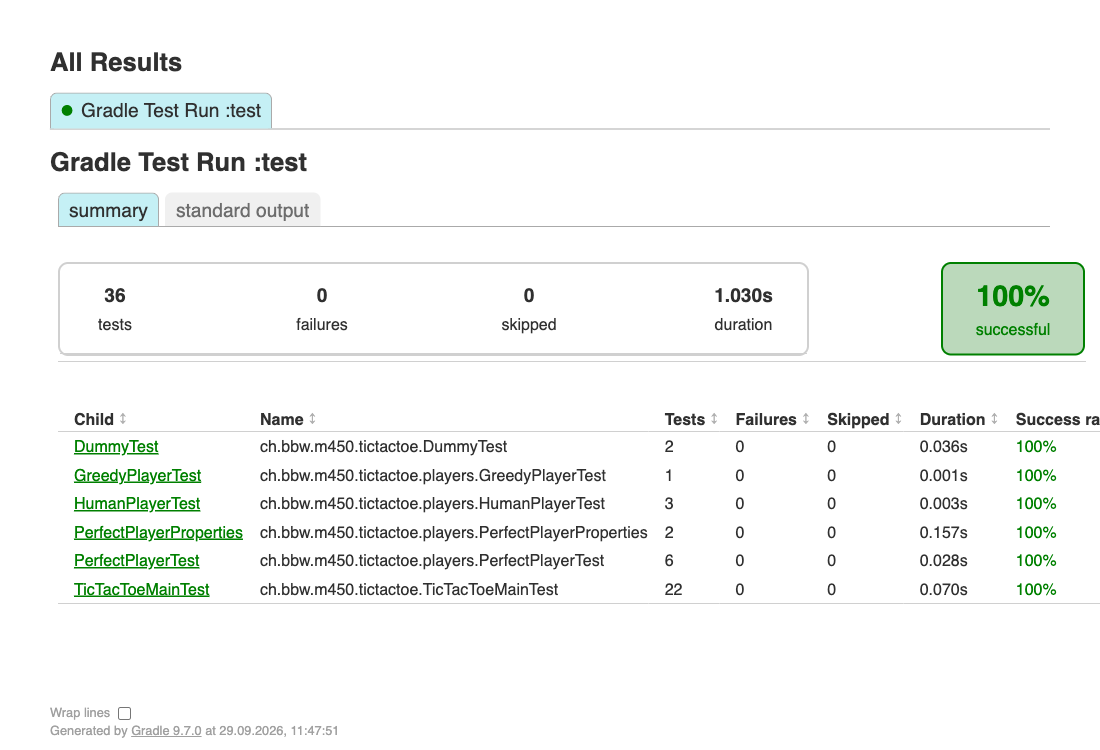
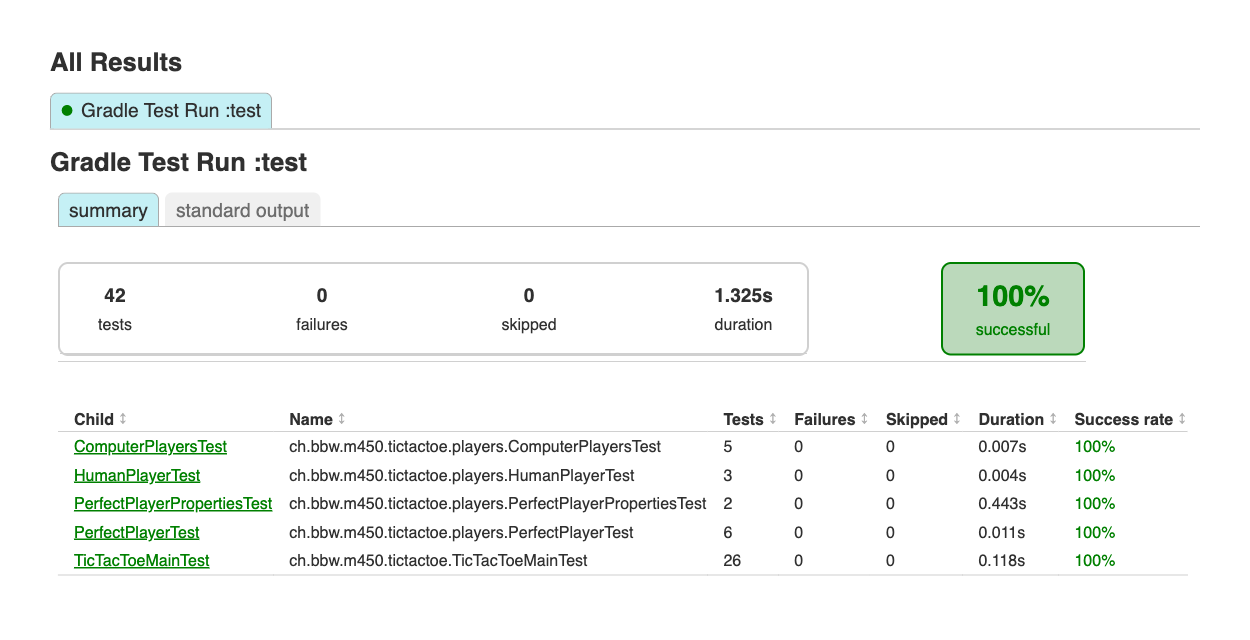
docs: Testkonzept und Screenshot auf 42 Tests und 100 % Mutation Score nachfuehren

diff --git a/docs/TESTING.md b/docs/TESTING.md
@@ -1,7 +1,7 @@
 # Testkonzept – TicTacTest (Modul 450)
 
 **Projekt:** TicTacTest (TicTacToe-Spiel-Engine in Java)
-**Dokument-Version:** 0.5 (IST)
+**Dokument-Version:** 0.6 (IST)
 **Autor / Rolle:** Duarte Santos – Entwickler = Tester (bewertete Einzelarbeit)
 **Repository:** `DuarteSantos8/450-tictactest-mvk`
 
@@ -34,7 +34,8 @@ Die Ziele sind nummeriert, damit die Testfälle (Abschnitt 7) darauf verweisen k
   `IllegalStateException` ab.
 - **TZ-06:** Ein-/Ausgabe funktioniert: `HumanPlayer` liest die Eingabe, `toString` und `main`
   geben das Brett richtig aus (StdIn/StdOut-Tests mit Pioneer).
-- **TZ-07:** Der `PerfectPlayer` verliert nie und blockt, wenn der Gegner gewinnen könnte.
+- **TZ-07:** Der `PerfectPlayer` verliert nie (als X und als O), blockt, wenn der Gegner gewinnen
+  könnte, und gewinnt, wenn er kann.
 - **TZ-08:** Mindestens 90 % Branch-Coverage (wird im Build erzwungen).
 
 ## 3. Teststrategie und Teststufen
@@ -44,22 +45,26 @@ Die Ziele sind nummeriert, damit die Testfälle (Abschnitt 7) darauf verweisen k
 - **StdIn/StdOut-Tests mit Pioneer:** `@StdIo` ersetzt die Tastatur-Eingabe und fängt die
   Konsolen-Ausgabe ab (`HumanPlayerTest`, `main` und `play` in `TicTacToeMainTest`).
 - **Property-based Tests mit jqwik** (zusätzliches Testframework): jqwik erzeugt viele
-  zufällige Eingaben und prüft, dass eine Regel immer stimmt (`PerfectPlayerProperties`).
+  zufällige Eingaben und prüft, dass eine Regel immer stimmt (`PerfectPlayerPropertiesTest`).
 - **Mutation Testing mit PITest:** PITest baut absichtlich Fehler in den Code ein (z.B. `<`
   statt `<=`) und schaut, ob ein Test rot wird. Wird kein Test rot, ist der Test zu schwach.
+  Der Build schlägt fehl, wenn weniger als 90 % der Mutanten erkannt werden (`mutationThreshold`).
 - **Coverage-Verification mit JaCoCo:** der Build schlägt fehl, wenn die Branch-Coverage
   unter 90 % fällt.
 
 Angewendete Prinzipien:
 
-- **Given-When-Then** als Namens- und Aufbauschema: der Methodenname nennt Ausgangslage,
-  Aktion und Erwartung; im Rumpf sind die drei Blöcke durch Leerzeilen getrennt.
+- **Sprechende Testnamen in camelCase**, die das erwartete Verhalten beschreiben, z.B.
+  `playRejectsTheSamePlayerTwice` (Java-Konvention, keine Sonar-Warnung wegen `_`). Wo es
+  geht, sind Tests Einzeiler; sonst sind Vorbereitung, Aktion und Prüfung durch Leerzeilen getrennt.
 - **AssertJ fluent-Assertions** statt roher `assertTrue(...)`: die Testklasse implementiert
   `WithAssertions`, damit `assertThat(...)` und `assertThatThrownBy(...)` direkt verfügbar sind.
 - **Fixtures für Isolation:** benannte Board-Konstanten statt magischer Strings und vor jeder
   Testmethode frische Spieler-Instanzen (`@BeforeEach`).
-- **Parameterized Test gegen Coderepetition:** die acht Siegeslinien und die Nicht-Sieg-Fälle
-  laufen über *eine* Methode statt über je einen Test pro Brett.
+- **Parameterized Test gegen Coderepetition:** gleiche Testlogik mit anderen Daten läuft immer
+  über *eine* Methode: Siegeslinien (`@MethodSource`), ganze Spiele (`@MethodSource`), ungültige
+  Züge und Muster (`@ValueSource`), `opponent()` und Spielzüge (`@CsvSource`) und der Test
+  „volles Brett“ für alle Computer-Player (`@MethodSource`).
 
 ### Fixtures und Helper
 
@@ -71,11 +76,11 @@ private static final String DIAGONAL_X_WINS = "XOO OX. XOX";
 private static final String DRAW_BOARD = "XOX XXO OXO";
 ```
 
-**Spieler-Fixture** – `@BeforeEach setUp()` legt vor *jeder* Testmethode zwei frische
-`GreedyPlayer` an, damit kein Test von einer Partie eines anderen Tests beeinflusst wird.
+**Spieler-Fixture** – `@BeforeEach setUp()` legt in `TicTacToeMainTest` vor *jeder*
+Testmethode zwei frische `GreedyPlayer` an, damit kein Test von einer Partie eines anderen Tests beeinflusst wird.
 
 **Helper** – `Boards.toBoard(...)` übersetzt so ein Muster in das `Stone[]` mit neun Feldern,
-das das Spiel erwartet. Er liegt in einer eigenen Klasse, damit alle Testklassen ihn benutzen
+das das Spiel erwartet, `Boards.emptyBoard()` liefert ein leeres Brett. Er liegt in einer eigenen Klasse, damit alle Testklassen ihn benutzen
 können (keine Coderepetition). Bei falscher Länge oder unbekanntem Zeichen wirft er eine
 `IllegalArgumentException`.
 
@@ -90,13 +95,8 @@ Die Sieg-Erkennung (TZ-01 / TZ-02) wird mit *einer* Methode über viele Konstell
 ```java
 @ParameterizedTest(name = "{1} on \"{0}\" -> {2}")
 @MethodSource("boardConstellations")
-void given_aBoard_when_isWinIsChecked_then_returnsWhetherThatColorHasALine(String pattern, Stone color,
-        boolean expectedToWin) {
-    var board = toBoard(pattern);
-
-    var winning = TicTacToeMain.isWin(board, color);
-
-    assertThat(winning).isEqualTo(expectedToWin);
+void isWinDetectsALineOnlyForItsOwnColor(String pattern, Stone color, boolean expectedToWin) {
+    assertThat(TicTacToeMain.isWin(toBoard(pattern), color)).isEqualTo(expectedToWin);
 }
 ```
 
@@ -105,12 +105,12 @@ void given_aBoard_when_isWinIsChecked_then_returnsWhetherThatColorHasALine(Strin
 | Testobjekt | Abgedeckt? | Testklasse | Bemerkung |
 |---|---|---|---|
 | `TicTacToeMain.isWin(...)` | ja | `TicTacToeMainTest` | alle acht Siegeslinien + Nicht-Sieg-Fälle |
-| `TicTacToeMain.play(...)` | ja | `TicTacToeMainTest` | Sieg, Unentschieden, ungültige Züge, gleiche Spieler |
+| `TicTacToeMain.play(...)` | ja | `TicTacToeMainTest` | 4 ganze Spiele (Sieg X, Sieg O, Unentschieden), ungültige Züge, gleiche Spieler |
 | `TicTacToeMain.toString(...)` | ja | `TicTacToeMainTest` | Ausgabe ohne Farbcodes verglichen |
 | `TicTacToeMain.main(...)` | ja | `TicTacToeMainTest` | mit Pioneer: Eingabe `3, 4, 5` → Mensch gewinnt |
 | `HumanPlayer` | ja | `HumanPlayerTest` | mit Pioneer: Eingabe lesen, Ausgabe prüfen, falsche Eingabe |
-| `GreedyPlayer` | ja | `GreedyPlayerTest` | volles Brett → Exception; sonst über `play(...)` |
-| `PerfectPlayer` | ja | `PerfectPlayerTest`, `PerfectPlayerProperties` | gewinnt gegen Greedy, blockt, verliert nie (jqwik) |
+| `GreedyPlayer` | ja | `ComputerPlayersTest` | nimmt das erste freie Feld; volles Brett → Exception |
+| `PerfectPlayer` | ja | `PerfectPlayerTest`, `PerfectPlayerPropertiesTest`, `ComputerPlayersTest`, `TicTacToeMainTest` | blockt, gewinnt wenn möglich, gewinnt gegen Greedy, verliert nie als X und als O (jqwik), volles Brett → Exception |
 | `Stone.opponent()` | ja | `TicTacToeMainTest` | beide Farben |
 
 **Gemessene Abdeckung (JaCoCo):**
@@ -119,14 +119,14 @@ void given_aBoard_when_isWinIsChecked_then_returnsWhetherThatColorHasALine(Strin
 |---|---|---|
 | Branch-Coverage | **100 %** (94 von 94) | min. 90 % (im Build erzwungen) |
 | Line-Coverage | **98.5 %** (67 von 68) | – |
-| Mutation Score (PITest) | **99 %** (72 von 73 Mutanten gekillt) | – |
+| Mutation Score (PITest) | **100 %** (73 von 73 Mutanten gekillt) | min. 90 % (im Build erzwungen) |
 
 Die eine nicht abgedeckte Zeile ist der unsichtbare Standard-Konstruktor von `TicTacToeMain`
 (die Klasse hat nur statische Methoden, darum wird nie ein Objekt davon erstellt).
 
-Der eine überlebende Mutant ändert im `PerfectPlayer` `score > bestScore` zu `score >= bestScore`.
-Dann nimmt der Player bei gleich guten Zügen den letzten statt den ersten – er spielt aber
-genauso perfekt. Das ist ein **äquivalenter Mutant**, den kein Test erkennen kann.
+Früher überlebte ein Mutant: `score > bestScore` im `PerfectPlayer` wurde zu `score >= bestScore`.
+Dann nimmt der Player bei gleich guten Zügen den letzten statt den ersten Zug. Der Test
+`takesTheFirstFieldWhenAllMovesAreEquallyGood` (leeres Brett → Feld 0) erkennt das jetzt.
 
 ## 5. Testrahmen und Erfolgskriterien
 
@@ -167,18 +167,19 @@ genauso perfekt. Das ist ein **äquivalenter Mutant**, den kein Test erkennen ka
 | TC-03 | TZ-01 | Brett `XOO OX. XOX` | `isWin(board, CROSS)` | `true` (Diagonale 0-4-8) |
 | TC-04 | TZ-02 | leeres Brett `... ... ...` | `isWin(board, CROSS)` | `false` |
 | TC-05 | TZ-02 | Brett `OOO XX. .X.` | `isWin(board, CROSS)` | `false` (Linie gehört O, nicht X) |
-| TC-06 | TZ-03 | zwei frische `GreedyPlayer` | `play(xPlayer, oPlayer)` | Rückgabe `CROSS` (X gewinnt) |
+| TC-06 | TZ-03 | zwei `GreedyPlayer` | `play(greedy, greedy)` | Rückgabe `CROSS`, Ausgabe „...and the winner is: CROSS“ |
 | TC-07 | TZ-04 | dieselbe Spieler-Instanz als X und O | `play(xPlayer, xPlayer)` | `IllegalArgumentException` |
 | TC-08 | TZ-05 | zwei `PerfectPlayer` | `play(...)` | Rückgabe `null`, Ausgabe „it's a draw!“ |
-| TC-09 | TZ-05 | O spielt auf `-1`, `9` oder das besetzte Feld `0` | `play(greedy, cheater)` | `IllegalStateException` |
+| TC-09 | TZ-05 | O spielt auf `-1`, `9` oder das besetzte Feld `0` | `play(greedy, cheater)` | `IllegalStateException`, vorher wird das Brett ausgegeben |
 | TC-10 | TZ-06 | Eingabe `" 4 "` | `HumanPlayer.play(...)` | Rückgabe `4`, Frage „where to put…“ wird ausgegeben |
 | TC-11 | TZ-06 | Eingabe `abc` | `HumanPlayer.play(...)` | `NumberFormatException` |
 | TC-12 | TZ-06 | Brett `X.. .O. ...` | `toString(board)` | `X  1  2` / `3  O  5` / `6  7  8` |
 | TC-13 | TZ-06 | Eingabe `3, 4, 5` | `main(...)` | Ausgabe „...and the winner is: CROSS“ |
 | TC-14 | TZ-07 | `GreedyPlayer` gegen `PerfectPlayer` (beide Reihenfolgen) | `play(...)` | `PerfectPlayer` gewinnt |
 | TC-15 | TZ-07 | Brett `XX. .O. ...`, O ist dran | `PerfectPlayer.play(...)` | `2` (blockt) |
-| TC-16 | TZ-07 | zufälliger Gegner (50 Spiele, jqwik) | `play(random, perfect)` | der Zufalls-Player gewinnt nie |
-| TC-17 | TZ-08 | – | `./gradlew check` | Build grün, Branch-Coverage ≥ 90 % |
+| TC-16 | TZ-07 | Gegner spielt die Felder in zufälliger Reihenfolge, PerfectPlayer als X oder O (100 Spiele, jqwik) | `play(...)` | der Gegner gewinnt nie |
+| TC-17 | TZ-07 | Brett `X.. OO. XX.`, O ist dran | `PerfectPlayer.play(...)` | `5` (gewinnt sofort statt nur zu blocken) |
+| TC-18 | TZ-08 | – | `./gradlew check` | Build grün, Branch-Coverage ≥ 90 % |
 
 TC-01 bis TC-05 sind Beispiele aus den 12 Konstellationen des Parameterized Tests
 (`boardConstellations`); die vollständige Liste steht in `TicTacToeMainTest.java`.
@@ -191,34 +192,30 @@ TC-01 bis TC-05 sind Beispiele aus den 12 Konstellationen des Parameterized Test
 - **Ergebnisdokumentation:** Test-Report und JaCoCo-Coverage werden in der CI als Artifact
   gespeichert; die Coverage-Entwicklung ist als Time-Series auf GitHub Pages sichtbar.
 
-## 9. Dummy-Tests
+## 9. Testumfang
 
-Datei: [`DummyTest.java`](../src/test/java/ch/bbw/m450/tictactoe/DummyTest.java) – rein
-technischer Nachweis, dass JUnit 5 und AssertJ korrekt eingebunden sind (keine TicTacToe-Logik,
-je einmal JUnit `assertEquals` und AssertJ `assertThat` nebeneinander).
-
-## 10. Testumfang
-
-**Gesamt: 36 Tests**, zuletzt lokal mit `./gradlew check pitest` ausgeführt: **36 Tests, 0 Fehler**.
+**Gesamt: 42 Tests**, zuletzt lokal mit `./gradlew clean check pitest` ausgeführt: **42 Tests, 0 Fehler**.
 
 | Testklasse | Anzahl | Inhalt |
 |---|---|---|
-| `DummyTest` | 2 | Nachweis JUnit + AssertJ |
-| `TicTacToeMainTest` | 22 | 12 × Parameterized `isWin`, 3 × ungültiger Zug, 7 Einzeltests |
+| `TicTacToeMainTest` | 26 | 12 × `isWin`, 4 ganze Spiele, 3 × ungültiger Zug, 2 × falsches Muster, 2 × `opponent()`, 3 Einzeltests |
+| `ComputerPlayersTest` | 5 | 2 × volles Brett (Greedy + Perfect), 3 × Zug des GreedyPlayer |
+| `PerfectPlayerTest` | 6 | 3 × blocken, 2 × gewinnen, 1 × erstes von gleich guten Feldern |
 | `HumanPlayerTest` | 3 | StdIn/StdOut mit Pioneer |
-| `GreedyPlayerTest` | 1 | volles Brett |
-| `PerfectPlayerTest` | 6 | 2 Spiele gegen Greedy, 3 × blocken, volles Brett |
-| `PerfectPlayerProperties` | 2 | jqwik-Properties (je 50 zufällige Durchläufe) |
+| `PerfectPlayerPropertiesTest` | 2 | jqwik-Properties (100 bzw. 50 Durchläufe) |
+
+Parameterized Tests zählen pro Datensatz als eigener Test. Der frühere `DummyTest` (nur Nachweis,
+dass JUnit und AssertJ eingebunden sind) wurde gelöscht, weil das die echten Tests jetzt zeigen.
 
 Bei jedem Push/Pull-Request läuft zusätzlich die GitHub-Actions-Pipeline; der Build ist grün.
 
-## 11. Screenshots
+## 10. Screenshots
 
-Alle Tests erfolgreich (36/36):
+Alle Tests erfolgreich (42/42):
 
-![Alle Tests erfolgreich (36/36, 100%)](screenshots/all-tests-passing.png)
+![Alle Tests erfolgreich (42/42, 100%)](screenshots/all-tests-passing.png)
 
-Ein bewusst fehlgeschlagener Test (zum Nachweis; danach wieder zurückgesetzt) – Übersicht,
+Ein bewusst fehlgeschlagener Test (zum Nachweis, damals mit 36 Tests; danach wieder zurückgesetzt) – Übersicht,
 Klassendetail und Stacktrace:
 
 ![Ein Test schlägt fehl (Übersicht)](screenshots/one-test-failing-overview.png)
